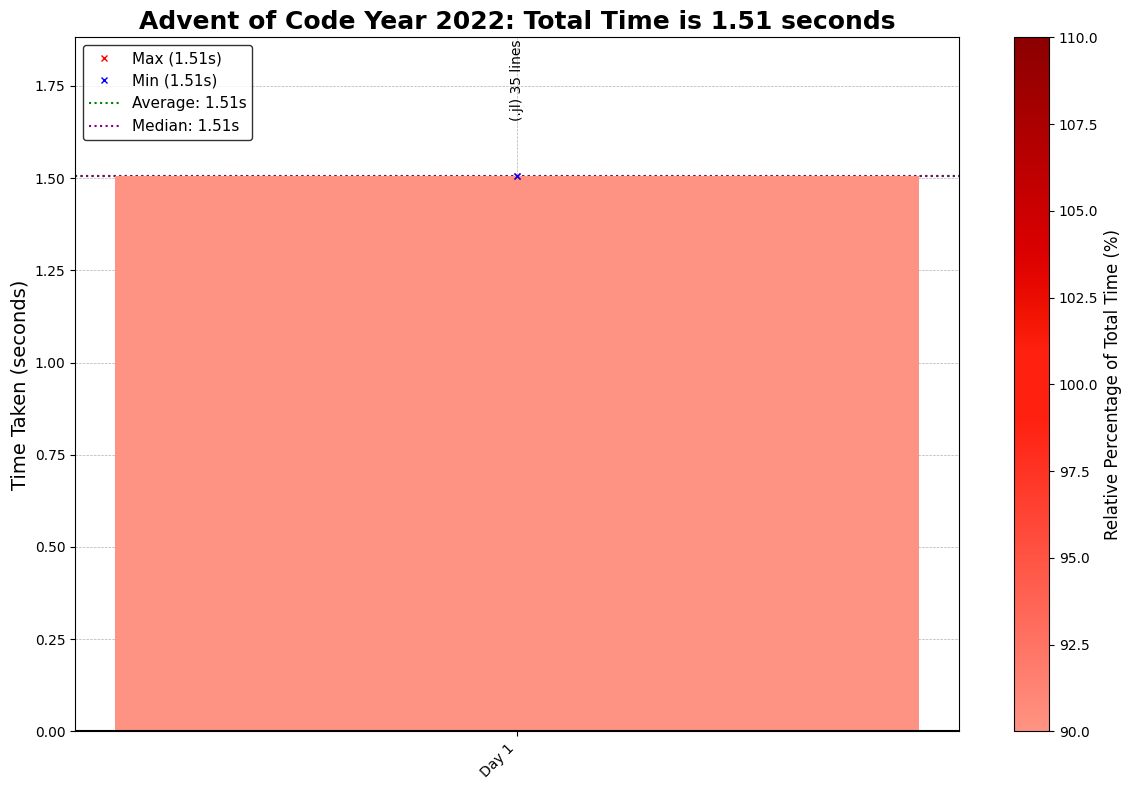
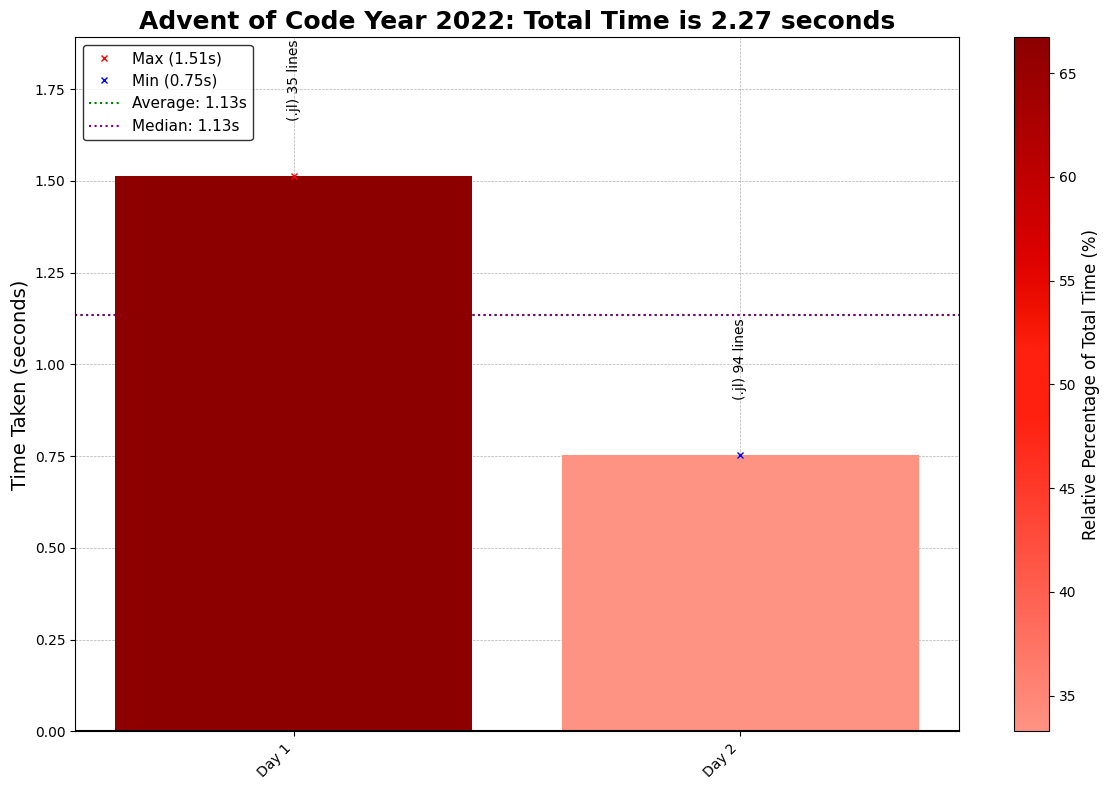
2022 Day 2 Julia

diff --git a/README.md b/README.md
@@ -22,7 +22,7 @@ In this repository, you’ll find:
 |------|-------|-----------------|------------------|------------|
 | 2024 |       |                 |                  | [GitHub](https://github.com/abbasmoosajee07/AdventofCode) |
 | 2023 |       |                 |                  | [GitHub](https://github.com/abbasmoosajee07/AdventofCode) |
-| 2022 | 2\*   |                 |                  | [GitHub](https://github.com/abbasmoosajee07/AdventofCode) |
+| 2022 | 4\*   |  2.27 s|Julia/Python| [GitHub](https://github.com/abbasmoosajee07/AdventofCode) |
 | 2021 | 50\*  | 36.55 s| Python/Ruby/C    | [GitHub](https://github.com/abbasmoosajee07/AdventofCode/tree/main/2021) |
 | 2020 | 50\*  |125.88 s| Python/Ruby/C    | [GitHub](https://github.com/abbasmoosajee07/AdventofCode/tree/main/2020) |
 | 2019 | 24\*  | 10.22 s| Python/Ruby/C    | [GitHub](https://github.com/abbasmoosajee07/AdventofCode/tree/main/2019) |
